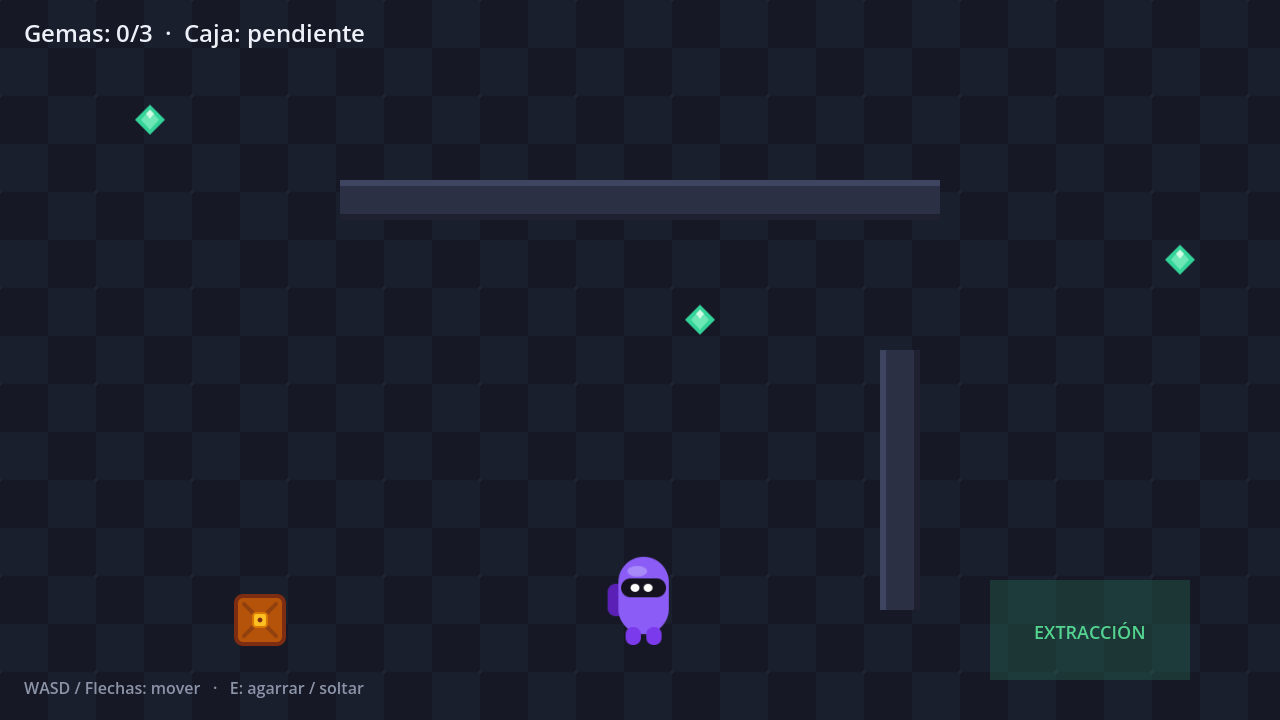
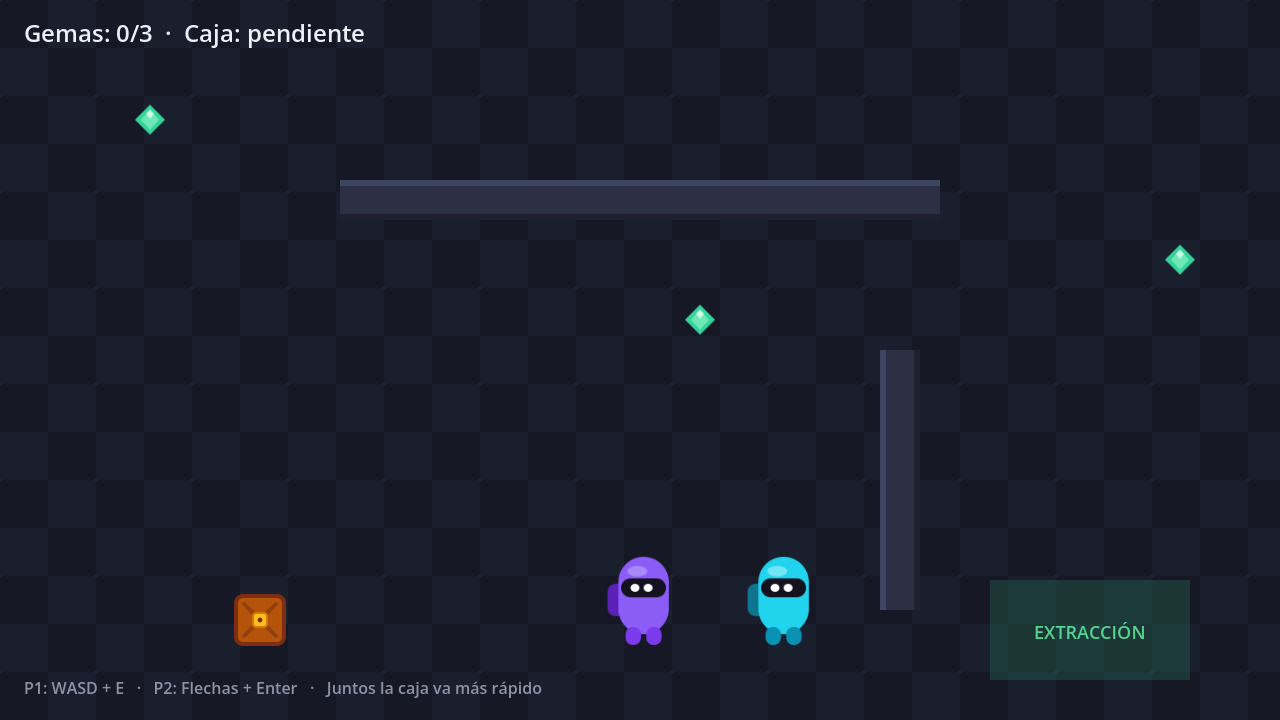
Co-op local 2 jugadores + agarre cooperativo de la caja

Changed region(s): [[0.0, 0.9472, 0.4375, 0.9778], [0.5625, 0.7639, 0.6562, 0.9167]]

diff --git a/README.md b/README.md
@@ -1,4 +1,4 @@
-# Robo Caótico — Prototipo 0.2
+# Robo Caótico — Prototipo 0.3
 
 Prototipo de robo cooperativo 2D (estilo R.E.P.O. / Among Us) para Steam.
 
@@ -6,11 +6,12 @@ Prototipo de robo cooperativo 2D (estilo R.E.P.O. / Among Us) para Steam.
 
 ## Estado actual
 
-- Arte flat vector estilo Among Us (personaje con antifaz, caja, gemas, baldosas)
-- Movimiento top-down (WASD o flechas)
-- Colisiones con paredes
-- **Agarre**: E levanta/suelta la caja de botín (cargarla te frena)
-- **Mini-bucle**: juntá las 3 gemas y llevá la caja a la zona de EXTRACCIÓN
+- Arte flat vector estilo Among Us (dos personajes, caja, gemas, baldosas)
+- **Co-op local 2 jugadores**: P1 (violeta) y P2 (cian)
+- Movimiento top-down con colisiones
+- **Agarre cooperativo**: la caja se lleva entre uno (45% de velocidad) o entre dos (80%), y se ubica en el punto medio entre ambos
+- Si los portadores se separan demasiado, se sueltan (sin efecto goma)
+- **Mini-bucle**: juntar las 3 gemas y llevar la caja a la zona de EXTRACCIÓN
 - HUD con estado del botín
 
 ## Cómo abrir el proyecto
@@ -23,22 +24,22 @@ O abrir Godot, **Import** y seleccionar esta carpeta. Dentro del editor, **F5** 
 
 ## Controles
 
-| Acción | Teclas |
-|---|---|
-| Mover | WASD / Flechas |
-| Agarrar / soltar caja | E |
+| Acción | Jugador 1 | Jugador 2 |
+|---|---|---|
+| Mover | WASD | Flechas |
+| Agarrar / soltar caja | E | Enter |
 
 ## Estructura
 
 ```
-scenes/        main, player, gem, crate, extraction_zone
+scenes/        main, player, player2, gem, crate, extraction_zone
 scripts/       GDScript de cada escena
-assets/art/    SVGs (personaje, caja, gema, sombra, baldosa)
+assets/art/    SVGs (personajes, caja, gema, sombra, baldosa)
 assets/audio/  (vacío por ahora)
 ```
 
 ## Siguiente paso
 
 - Ronda con temporizador y alarma
-- Multijugador local (2 jugadores, misma pantalla) → red
-- Agarre cooperativo real: dos jugadores deben cargar la caja juntos
+- Agarre cooperativo con física (peso real, tambaleo)
+- Multijugador en red (lobbies de Steam)
